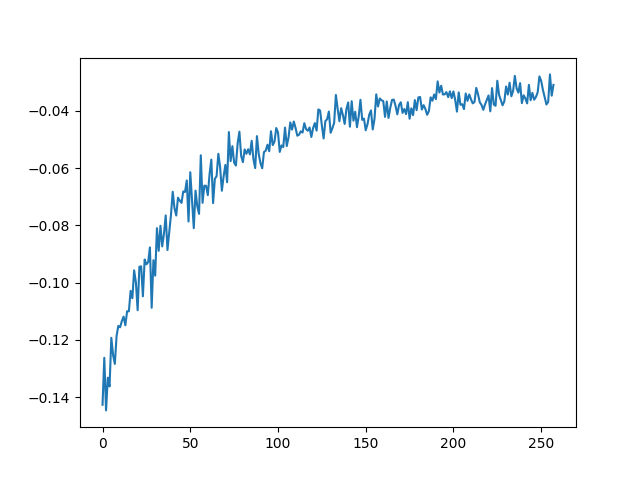
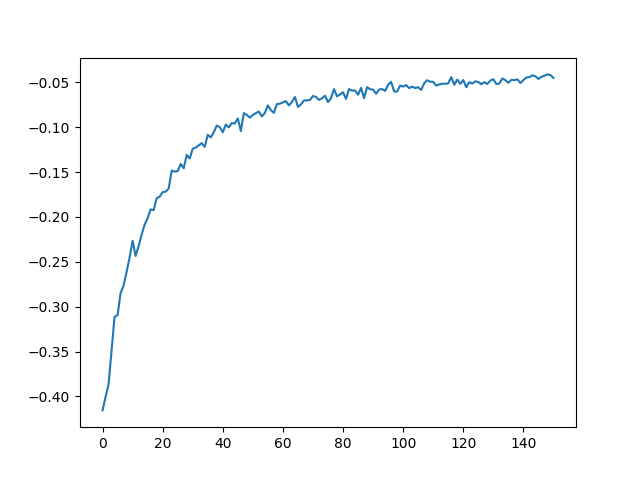
VanGogh===VanJiang

diff --git a/python_sim/obamify.py b/python_sim/obamify.py
@@ -8,11 +8,11 @@ N = 1000
 M = 10000
 W = 256
 H = 256
-MAX_LENGTH = 5
+MAX_LENGTH = 10
 TARGET_LOSS_DISCOUNT = 0.8
 
-INPUT_SOURCE = './input/fk.png'
-INPUT_TARGETS = ['./input/obama.png']
+INPUT_SOURCE = './input/vangogh.png'
+INPUT_TARGETS = ['./input/fk.png']
 OUTPUT_FILE = './output/obamified.png'
 
 img_source = Image.open(INPUT_SOURCE).resize((W, H)).convert('RGB')
@@ -37,11 +37,9 @@ def loss_pixel(s, t, i, j, k, l):
     rgb_s = s[i, j]
     rgb_t = t[k, l]
     pixel_diff = rgb_s - rgb_t
-    loss = pixel_diff[0]**2 + pixel_diff[1]**2 + pixel_diff[2]**2 
-            
-    return loss
+    return pixel_diff[0]**2 + pixel_diff[1]**2 + pixel_diff[2]**2 
 
-def random_pixel_best_move(s, t, i, j):
+def random_swap(s, t, i, j):
     global W, H, MAX_LENGTH
     movements = [(0, 1), (1, 0), (0, -1), (-1, 0)]
 
@@ -59,27 +57,18 @@ def random_pixel_best_move(s, t, i, j):
     if loss_diff <= 0: return di * l_i, dj * l_j, loss_diff
     return 0, 0, 0
 
-def pixel_best_move(s, t, i, j):
-    global W, H, MAX_LENGTH
-    movements = [(0, 1), (1, 0), (0, -1), (-1, 0)]
-    best_move = (0, 0)
-    best_loss_diff = 0
+# generate a random number in [0, max_i) using a piecewise linear CDF
+def rand_cdf_6(max_i):
+    i = random.randint(0, 6*max_i - 1)
+    if i < max_i: return i // 4
+    if i < 5*max_i: return i // 8 + max_i // 8
+    return i // 4 - max_i // 2
 
-    for l_i in range(1, MAX_LENGTH + 1):
-        for l_j in range(1, MAX_LENGTH + 1):
-            for di, dj in movements:
-                k = i + di * l_i
-                l = j + dj * l_j
-                if k < 0 or k >= W or l < 0 or l >= H: continue
-                loss_old = loss_pixel(s, t, i, j, i, j) + loss_pixel(s, t, k, l, k, l) * TARGET_LOSS_DISCOUNT
-                loss_new = loss_pixel(s, t, i, j, k, l) + loss_pixel(s, t, k, l, i, j) * TARGET_LOSS_DISCOUNT
-                
-                loss_diff = loss_new - loss_old
-                if loss_diff <= best_loss_diff: 
-                    best_loss_diff = loss_diff
-                    best_move = (di * l_i, dj * l_j)
-            
-    return best_move[0], best_move[1], best_loss_diff
+def rand_cdf_14(max_i):
+    i = random.randint(0, 14*max_i - 1)
+    if i < max_i: return i // 8
+    if i < 13*max_i: return i // 16 + max_i // 16
+    return i // 8 - max_i * 3 // 4
 
 # Replace saving normalized float array (which causes KeyError) with a denormalized uint8 image
 obamified_image = Image.fromarray(reconstruct(source, source_mean, source_std))
@@ -88,9 +77,11 @@ losses = []
 for epoch in range(N):
     sum_loss = 0
     for m in range(M):
-        i = random.randint(0, W - 1)
-        j = random.randint(0, H - 1)
-        di, dj, loss = random_pixel_best_move(source, target, i, j)
+        i = rand_cdf_6(W)
+        j = rand_cdf_14(H)
+        # i = random.randint(0, W - 1)
+        # j = random.randint(0, W - 1)
+        di, dj, loss = random_swap(source, target, i, j)
         k = i + di
         l = j + dj
         sum_loss += loss
